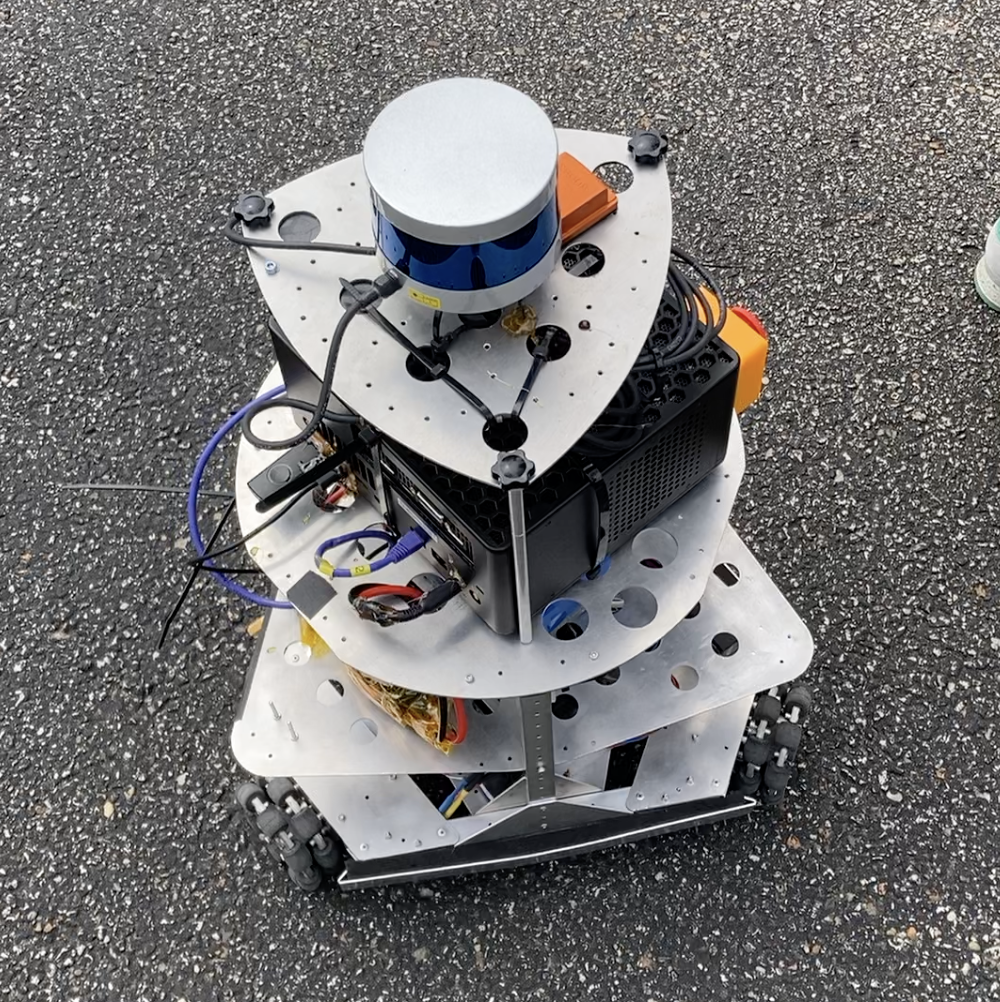
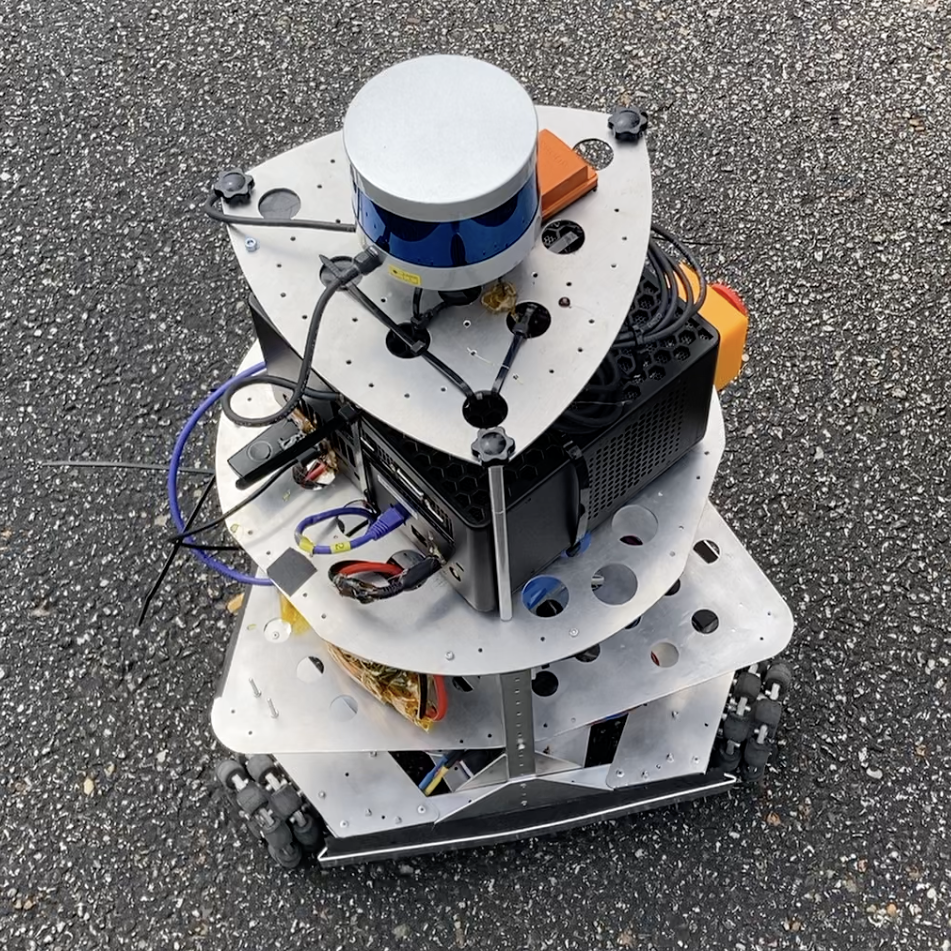
minor: detail matters

diff --git a/_includes/intro.html b/_includes/intro.html
@@ -2,31 +2,29 @@
 
   <div>
     <p style="margin-top: 0;">
-      <img src="assets/img/avatar.jpeg" class="rounded-circle" style="width: 150px;" alt="Avatar" />
+      <img src="assets/img/avatar.png" class="rounded-circle" style="width: 150px;" onmouseover="this.src='assets/img/avatar3.png'" onmouseout="this.src='assets/img/avatar.png'"  alt="Avatar" />
     </p>
     <h4>ABOUT ME</h4>
     <p style="font-weight: 900">•</p>
 
-    <div style="">
-    </div>
     <p style="margin-top: 10px">
-      I'm a Ph.D. student at
-      <a href="https://www.cmu.edu">Carnegie Mellon University</a>
-      . I've also earned my M.S. in Machine Learning here. My research
+      I'm pursuing my Ph.D. at
+      Carnegie Mellon University. I also acquired my M.S. in Machine Learning here. My research
       interest is in
-      <strong>reinforcement learning (RL), robotics, and human-robot interaction</strong>, especially in navigation, construction related contexts. With an interdisciplinary
-      background in machine learning, robotics,
-      and computational design, I’m constantly motivated by the vision of AI
+      <strong>reinforcement learning (RL), robotics, and human-robot interaction</strong>, especially in
+      <strong>navigation</strong> and <strong>construction</strong> related contexts. With an interdisciplinary
+      background in machine learning, robotics, computational design, and architecture, I’m constantly motivated by the
+      vision of AI
       helping us <strong>build smarter</strong>, both virtually and concretely.
-      I consider myself a full-stack roboticist. I enjoy prototyping and making things from 0 to 1. I enjoy exploring
+      I'm gradually becoming a full-stack roboticist. I enjoy prototyping and making things from 0 to 1. I enjoy
+      exploring
       solutions to critical problems.
-      <strong>I’m a do-er</strong>
-      . Prior to CMU, I obtained my M.Arch. and B.Arch. from Tsinghua
-      University in Beijing, China. Since May 2018, I've co-founded a
+      <strong>I’m a do-er</strong>. Prior to CMU, I obtained my M.Arch. and B.Arch. from Tsinghua
+      University in Beijing, China. In May 2018, I co-founded a
       startup (Metascope Tech) that aims at providing B2B consultation to
-      Chinese commercial architecture market. Applying ML and CV to an
+      Chinese commercial architecture market. Applying machine learning and computer vision techniques to an
       aesthetics recommendation system, we profile clients' spatial
-      preferences to facilitate architects form better design decisions. In
+      preferences to assist architects form better design decisions. In
       my leisure time, I enjoy photography, cooking, reading, and drum
       playing. I can be reached at
       <strong>yuningw</strong>
@@ -41,10 +39,8 @@
     </p>
 
     <p style="margin-top: 10px">
-      If you are interested in the other side of me (<strong>SIDE-B: architect,
-        maker, designer</strong>), click
-      <a href="portfolio.html" class="badge badge-dark"><strong>here</strong></a>
-      .
+      If you are interested in the other side of me: <a href="portfolio.html" class="badge badge-dark"><strong>SIDE-B: architect,
+        maker, designer</strong></a>
     </p>
   </div>
 </div>

diff --git a/_includes/footer.html b/_includes/footer.html
@@ -3,7 +3,7 @@
         <div class="row">
             <div class="col-md-10 col-lg-8 mx-auto">
                 <ul class="list-inline text-center">
-                    <li class="list-inline-item"><span class="fa-stack fa-lg"><i class="fa fa-circle fa-stack-2x"></i><a data-bs-hover-animate="flash" href="mailto:yuningw@cs.cmu.edu" target="_blank"><i class="fa fa-envelope fa-stack-1x fa-inverse"></i></a></span></li>
+                    <!-- <li class="list-inline-item"><span class="fa-stack fa-lg"><i class="fa fa-circle fa-stack-2x"></i><a data-bs-hover-animate="flash" href="mailto:yuningw@cs.cmu.edu" target="_blank"><i class="fa fa-envelope fa-stack-1x fa-inverse"></i></a></span></li> -->
                     <li
                         class="list-inline-item"><span class="fa-stack fa-lg"><i class="fa fa-circle fa-stack-2x"></i><a data-bs-hover-animate="flash" href="https://www.linkedin.com/in/yuning-wu/" target="_blank"><i class="fa fa-linkedin fa-stack-1x fa-inverse" href="https://www.linkedin.com/in/yuning-wu/"></i></a></span></li>
                         <li

diff --git a/_includes/selected.html b/_includes/selected.html
@@ -1,18 +1,20 @@
 <div class="row" style="margin-bottom: 35px">
-  <div >
+  <div>
     <h4>SELECTED</h4>
     <p style="font-weight: 900">•</p>
     <table class="table" style="margin: 10px 0">
       <tbody>
-        {% for item in site.data.project %}
+        {% for item in site.data.selected %}
         <tr>
-          <td style="width: 20%; padding: 0.5rem">
+          <td style="width: 20%; padding: 10px; padding-left: 0;">
             <a href="{{ item.link }}">
               <img src="{{ item.img }}" alt="cover" width="100%" />
             </a>
           </td>
-          <td style="width: 20%; padding: 0.5rem">
-            <img src="{{ item.img2 }}" alt="cover" width="100%" />
+          <td style="width: 20%; padding: 10px; padding-left: 0;">
+            <a href="{{ item.link }}">
+              <img src="{{ item.img2 }}" alt="cover" width="100%" />
+            </a>
           </td>
           <td>
 

diff --git a/portfolio.html b/portfolio.html
@@ -1,9 +1,6 @@
 ---
 layout: blank
-title: Yuning Wu
-header-bgimg: assets/img/portfolio-bg.png
-header-title: WELCOME TO SIDE-B
-header-subtitle: Architect, maker, designer
+title: YUNING WU
 ---
 
 <div class="container text-left">
@@ -12,7 +9,7 @@ header-subtitle: Architect, maker, designer
       <div style="margin-bottom: 50px">
         <h4>ARCHITECT, MAKER, DESIGNER</h4>
         <p style="font-weight: 900">•</p>
-        <p>Welcome to <span class="badge badge-dark">SIDE-B</span></p>
+        <p>Welcome to <strong>SIDE-B</strong>. Portal to <a href="index.html" class="badge badge-dark"><strong>SIDE-A: ML+robotics researcher</strong></a>.</p>
         <table class="table" style="margin: 1rem 0">
           <tbody>
             {% for item in site.data.portfolio %}

diff --git a/assets/bootstrap/css/bootstrap.min.css b/assets/bootstrap/css/bootstrap.min.css
@@ -9624,7 +9624,7 @@ header.masthead .overlay {
   height: 100%;
   width: 100%;
   background-color: black;
-  opacity: 0.5;
+  opacity: 0.3;
 }
 header.masthead .page-heading,
 header.masthead .post-heading,

diff --git a/_includes/header.html b/_includes/header.html
@@ -1,6 +1,4 @@
-<header class="masthead" style="
-        /* background-size: auto; */
-	">
+<header class="masthead"">
 
     {% include carousel.html %}
 </header>
